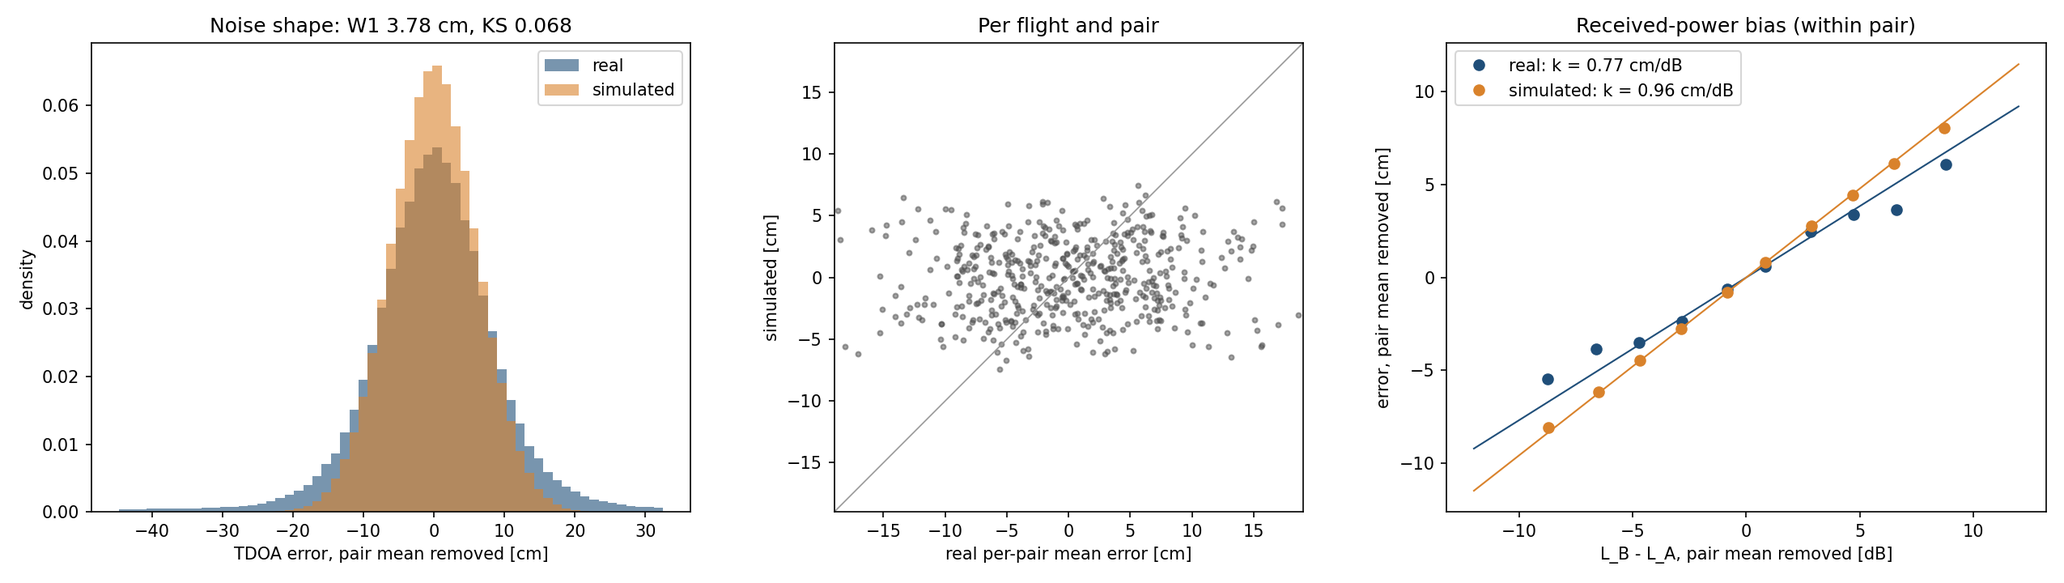
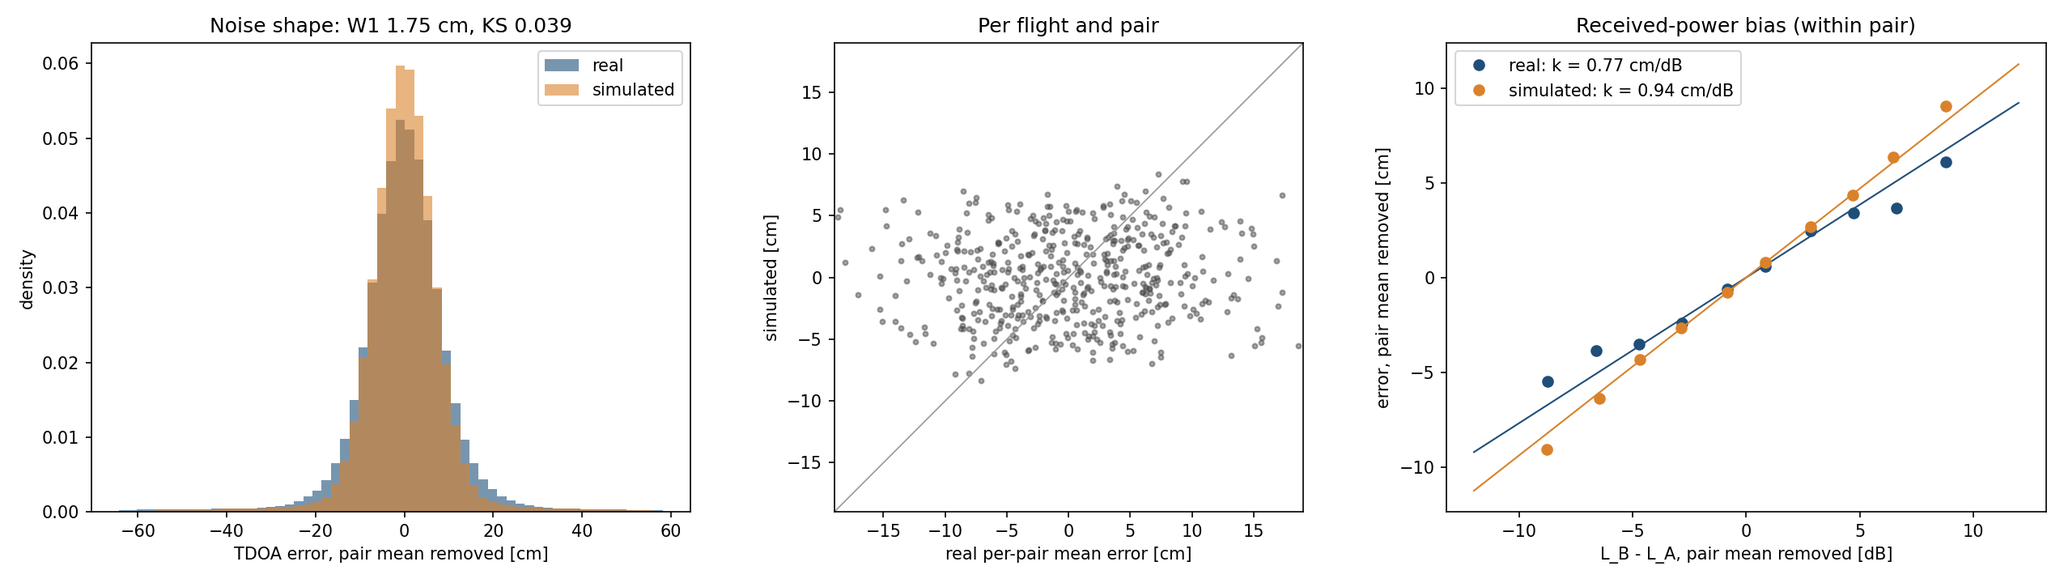
inject outliers when moving tags in tdoa mode

diff --git a/gui/static/app.js b/gui/static/app.js
@@ -38,6 +38,8 @@ const PARAM_UI = {
   dropout_mid_loss_db: { type: "slider", min: 0, max: 80, step: 0.5 },
   dropout_width_db: { type: "slider", min: 0.1, max: 10, step: 0.1 },
   enable_nlos_dropout: { type: "bool" },
+  moving_outlier_probability: { type: "slider", min: 0, max: 0.2, step: 0.005 },
+  moving_outlier_mean_cm: { type: "slider", min: 0, max: 100, step: 1 },
   nlos_endpoint_margin_m: { type: "slider", min: 0, max: 1, step: 0.01 },
   nlos_min_loss_db: { type: "slider", min: 0, max: 20, step: 0.5 },
   body_shadow_max_loss_db: { type: "slider", min: 0, max: 40, step: 0.5 },

diff --git a/uwb_gazebo_plugin/UWBGazeboSystem.cpp b/uwb_gazebo_plugin/UWBGazeboSystem.cpp
@@ -132,8 +132,8 @@ constexpr double kPositiveEpsilon = 1e-6;
 
   // Default material table. "generic" uses plasterboard's attenuation (a
   // typical interior wall) but no excess-delay bias by default, since an
-  // untagged obstacle's real material is unknown. See README.md,
-  // "Measurement model".
+  // untagged obstacle's real material is unknown. See
+  // docs/measurement_model.md.
   const std::unordered_map<std::string, MaterialModel> &materialModels()
   {
     using Kind = MaterialModel::Kind;
@@ -202,9 +202,13 @@ constexpr double kPositiveEpsilon = 1e-6;
     double obstacleLossDb{0.0};        // L_obs: walls, materials, bodies
     double biasCm{0.0};                // beta: excess delay + metal detour + power bias
     bool isNlos{false};
+    bool tagMoving{false};
     double dropoutProbability{0.0};
     double noiseStddevCm{0.0};
   };
+
+  // Smallest step between updates that counts as a moving tag.
+  constexpr double kMovingTagMinStepM = 0.01;
 
   // Parameters of the previous (severity-curve) model. They no longer
   // exist; Configure() says so rather than silently ignoring an old preset.
@@ -320,6 +324,9 @@ void UWBGazeboSystem::ValidateAndNormalizeParameters()
   clampNonNegative(this->bodyShadowMaxLossDb_, "body_shadow_max_loss_db");
   clampNonNegative(this->metalDetourLossDb_, "material_metal_detour_loss_db");
   clampNonNegative(this->metalDetourBiasCm_, "material_metal_detour_bias_cm");
+  clampNonNegative(this->movingOutlierProbability_, "moving_outlier_probability");
+  clampNonNegative(this->movingOutlierMeanCm_, "moving_outlier_mean_cm");
+  this->movingOutlierProbability_ = std::min(this->movingOutlierProbability_, 1.0);
 
   if (this->noiseEndLossDb_ < this->noiseStartLossDb_)
   {
@@ -425,6 +432,8 @@ void UWBGazeboSystem::Configure(const gz::sim::Entity &,
   readDouble("dropout_width_db", this->dropoutWidthDb_);
 
   readBool("enable_nlos_dropout", this->enableNlosDropout_);
+  readDouble("moving_outlier_probability", this->movingOutlierProbability_);
+  readDouble("moving_outlier_mean_cm", this->movingOutlierMeanCm_);
   readDouble("nlos_endpoint_margin_m", this->nlosEndpointMarginM_);
   readDouble("nlos_min_loss_db", this->nlosMinLossDb_);
   readDouble("body_shadow_max_loss_db", this->bodyShadowMaxLossDb_);
@@ -962,11 +971,22 @@ void UWBGazeboSystem::PreUpdate(const gz::sim::UpdateInfo &info,
 	const std::unordered_map<gz::sim::Entity, std::string> *obstacleMaterialsPtr =
 		this->enableMaterialAttenuation_ ? &obstacleMaterials : nullptr;
 
+	// Which tags moved since the last update (for the moving-tag outliers).
+	std::unordered_map<gz::sim::Entity, bool> tagMoving;
+	for (const auto &[tagName, tagEntity] : tags)
+	{
+		const gz::math::Vector3d tagPos = computeWorldPose(tagEntity, ecm).Pos();
+		const auto last = this->lastTagPosition_.find(tagEntity);
+		tagMoving[tagEntity] = last != this->lastTagPosition_.end() &&
+		                       tagPos.Distance(last->second) > kMovingTagMinStepM;
+		this->lastTagPosition_[tagEntity] = tagPos;
+	}
+
 	// Geometry + link budget of one tag-anchor link: what the ray crosses,
 	// the excess loss L = L_d + L_obs, and from it the LOS/NLOS regime, noise
 	// stddev and dropout probability. Shared by TWR (one link per
-	// measurement) and TDOA (two links per measurement). See README.md,
-	// "Measurement model".
+	// measurement) and TDOA (two links per measurement). See
+	// docs/measurement_model.md.
 	auto evaluateLink = [&](const gz::sim::Entity &_tagEntity,
 	                        const gz::math::Vector3d &_tagPos,
 	                        const gz::sim::Entity &_anchorEntity,
@@ -974,6 +994,7 @@ void UWBGazeboSystem::PreUpdate(const gz::sim::UpdateInfo &info,
 	{
 		LinkState link;
 		link.distanceM = _tagPos.Distance(_anchorPos);
+		link.tagMoving = tagMoving.at(_tagEntity);
 
 		const BlockedPath wallPath =
 			computeAabbBlockedPath(_tagPos, _anchorPos, obstacleLinks, _tagEntity, _anchorEntity,
@@ -1020,6 +1041,12 @@ void UWBGazeboSystem::PreUpdate(const gz::sim::UpdateInfo &info,
 			std::normal_distribution<double>(this->noiseMeanCm_, _link.noiseStddevCm)(this->rng_);
 		if (_link.isNlos && noiseCm < 0.0)
 			noiseCm = -noiseCm;
+		// Occasional late first path, seen only on moving tags in UTIL's data.
+		if (_link.tagMoving && this->movingOutlierProbability_ > 0.0 &&
+		    std::bernoulli_distribution(this->movingOutlierProbability_)(this->rng_))
+		{
+			noiseCm += std::exponential_distribution<double>(1.0 / this->movingOutlierMeanCm_)(this->rng_);
+		}
 		return noiseCm + _link.biasCm;
 	};
 

diff --git a/uwb_gazebo_plugin/UWBGazeboSystem.hpp b/uwb_gazebo_plugin/UWBGazeboSystem.hpp
@@ -100,6 +100,8 @@ private:
   unsigned int randomSeed_{0};
 
   std::unordered_map<std::string, double> pairBiasCm_;
+  // Each tag's position at the previous update.
+  std::unordered_map<gz::sim::Entity, gz::math::Vector3d> lastTagPosition_;
   std::uniform_real_distribution<double> biasCmDist_{-27.0, 20.0};
 
   // Configurable sensor model parameters (units: cm, unless noted).
@@ -123,6 +125,10 @@ private:
   // If false, obstacles don't affect dropout (only the path loss does);
   // noise still uses the full link budget.
   bool enableNlosDropout_{true};
+  // Moving tags only: each leg reads long with this probability, by an
+  // exponential excess of this mean. 0 disables it.
+  double movingOutlierProbability_{0.0};
+  double movingOutlierMeanCm_{30.0};
   // Ignore intersections too close to endpoints to avoid self-hit artifacts.
   double nlosEndpointMarginM_{0.02};
   // Obstacle loss at or above which a link is NLOS (noise folded positive).

diff --git a/gui/app.py b/gui/app.py
@@ -183,6 +183,8 @@ def create_app(uwb_root: Path, selection_file: Path) -> Flask:
         ]),
         ("Additive noise mean and persistent bias.", [
             ("gaussian_noise_mean_cm", 0.0),
+            ("moving_outlier_probability", 0.0),
+            ("moving_outlier_mean_cm", 30.0),
             ("apply_pair_bias", False),
             ("bias_min_cm", -27.0),
             ("bias_max_cm", 20.0),

diff --git a/docs/measurement_model_decisions.md b/docs/measurement_model_decisions.md
@@ -44,6 +44,7 @@ This is the record of every modelling decision in `UWBGazeboSystem` (the equatio
 | 3.6 | $`L_P = 0`$ dB | **Assumption** | Not observable in TDOA (cancels between legs); matters only in TWR, where it sets the distance with zero power bias. |
 | 3.7 | Per-anchor persistent offsets uniform on ±3.6 cm (UTIL) | Fitted (spread); **Assumption (uniform shape, √2 split)** | After removing the power trend, UTIL's per-setup mean error scatters by $`\sigma_r = 2.96`$ cm. The simulated experiment redraws both anchors per setup, so each anchor gets $`\sigma_r/\sqrt 2`$ (uniform half-width $`\sqrt{1.5}\,\sigma_r`$). In UTIL's distance test only anchor 1 moved, so this split is chosen to reproduce the experiment's scatter, not derived from physics. **Flights:** the 8 radios show a larger spread (σ ≈ 4.5 cm); widening to match was tested and rejected (D4), see open decision 10. |
 | 3.8 | Eliko persistent bias range [-27, +20] cm, off by default | Source | From the original Eliko preset (paper Table II lists pair bias disabled). Not re-derived. |
+| 3.9 | Moving-tag outliers: each leg reads long with $`p_o`$ = 0.05, by an exponential excess of mean $`m_o`$ = 25 cm, only if the tag moved more than 1 cm since the last update | Fitted (values); **Assumption (form, 1 cm gate)** | See D7. The motion gate rests on the data (0.0-0.02 % outliers in static LOS, 1-16 % in flights), but static tests also differ from flights in platform, so motion itself isn't proven to be the cause. Off in the Eliko preset: no data. |
 
 ## 4. Evidence for the received-power bias
 
@@ -97,6 +98,27 @@ Comparison method: W1 between real and simulated TDOA error distributions, same 
 
 Results, tables and figures: [Calibration](measurement_model.md#calibration).
 
+## Second calibration round (2026-11-04)
+
+Prompted by the remaining flight mismatch. The user's added condition: **no excessive parameters; always the simplest solution that gives the best results.** The dataset and tools were restored for this round and removed afterwards. The baseline reproduced first: static results exactly; LOS flights 5.20 / 3.78 cm; NLOS flights 8.58 / 13.17 cm (documented earlier as 8.26 / 13.11, so flights aren't bit-reproducible and differences near 0.3 cm mean nothing).
+
+| Decision | Change | Evidence |
+| --- | --- | --- |
+| D7 | **Kept.** Moving-tag outliers, $`p_o`$ = 0.05, $`m_o`$ = 25 cm (decision 3.9) | LOS flights W1 5.20 / 3.78 → 3.07 / 1.75 cm; NLOS 8.58 / 13.17 → 7.89 / 11.38 cm; every constellation better. Held-out trial 4 (not used in the fit): const 1 4.29 / 2.06 → 2.81 / 1.36, const 2 3.00 / 1.66 → 1.75 / 0.93, const 3 9.49 / 9.07 → 7.40 / 7.20 cm. Static: unaffected, verified on the final build. Values picked from a grid on the recorded flights; the optimum is broad. |
+| D8 | **Rejected and removed.** Metal detour loss out of the noise curve, with a fixed metal noise of 18 cm | Fixes the leg size (57 → 36.8 cm, real 27.9) but flight W1 worsens: 8.58 / 12.88 → 13.29 / 16.45 cm (pooled per pair), because metal scatter falls to 11.5 cm against the real 34.7. Static metal W1 6.88 → 6.91 cm. |
+| D9 | **Rejected, not implemented.** Bias-only metal: same, with the shift from `material_metal_detour_bias_cm` | Offline: static metal W1 doubles (6.0 → 10-13 cm), within-placement spread 4.6 cm against the real 7.1. |
+| D10 | **Rejected, not implemented.** Excess delay as a field correlated over tag travel, scaled by $`L_{	ext{obs}}`$ (Gudmundson-style) | Offline over 60 seeds, summed pooled W1 over the six anTag obstacles: 20.5-22.8 cm against 19.4 cm for the current model. It helps metal (5.75 → 3.37 cm) but hurts the cabinet (6.17 → 9.56 cm), and it needs a correlation length plus per-link state. With 6 placements, a single seed's W1 also penalises any model with real placement randomness: a model's W1 against itself reaches 4-8 cm. |
+| D11 | **Not pursued.** Per-anchor outlier rates or burst states | Real rates differ strongly per anchor, but the added parameters and state go against the simplicity condition, and the uniform term already improves every group. |
+
+**Measured on the real data:**
+
+- **Static spread is mostly between placements.** Within-placement robust std: metal 7.1 cm, wood 4.6-6.1 cm, LOS 4.9 cm. This corrects the reading in open decision 7, which took pooled spreads as noise. The model's folded noise over-produces within-placement spread behind metal (11.2 cm) and under-produces placement scatter (2.9 cm against 14.9 cm).
+- **Placement sd:** metal 14.9, wooden shelf 13.7, cabinet 7.3, plastic 2.8, foam 1.2, cardboard 1.0 cm. The shelf's is mostly geometric: its $`L_{	ext{obs}}`$ is 6 dB in four placements and 19 dB in two.
+- **Metal leg in flight:** medians 26-29 cm in all three trajectories, correlation over tag separation 0.82 (< 0.1 m), 0.57 (0.5 m), 0.41 (1 m), 0.23 (2 m); repeatable between flights (0.55-0.62 over shared 0.5 m cells). Mean 64.6 cm against a median of 27 cm: a very heavy tail.
+- **LOS tails are per-anchor and not fixed:** const 3 anchors 6 and 3 read > 30 cm long in 26 % and 14.6 % of samples, others 0.7-4 %. Const 4: anchor 2 (metal) 32.9 %, anchor 5 (wood) 11.1 %, wood anchors 0 and 7 about 4 %. Correlation is gone by about 0.25 m and repeatability between flights is low for anchor 6 (-0.33 to 0.48).
+
+W1 pairs in this section are raw / each pair's median removed. `analyze_flight` removes medians per flight; D8's pooled figures group each pair across flights, which is why they differ slightly.
+
 ### Pipeline problems found
 
 These affected the comparison and were fixed; the first two also apply to normal use:
@@ -126,17 +148,17 @@ How UTIL's flights were reproduced in the full pipeline. These are experiment ch
 
 These are the assumptions above that data could still change, what the UTIL experiments showed, and what would settle each:
 
-1. **Noise core and tails (3.2):** the LOS core is 15-30 % too wide at 4 cm, but narrowing it (D2) worsens the high-loss NLOS fit, because the model's spread doesn't grow enough with loss (open decision 7). Fixing 7 first would let the LOS core be narrowed without that cost. A heavy-tail component for the real data's tails and gross outliers (three single samples 9-14 m off in the LOS angle test; wide, multi-modal errors behind wood and metal) is also open.
+1. **Noise core and tails (3.2):** the LOS core is 15-30 % too wide at 4 cm, but narrowing it (D2) worsens the high-loss NLOS fit, because the model's spread doesn't grow enough with loss (open decision 7). Fixing 7 first would let the LOS core be narrowed without that cost. D7 added a tail for moving tags; static gross outliers (three single samples 9-14 m off in the LOS angle test) stay unmodelled.
 2. **Power-bias form (3.5):** linear for now (D3); APS011's Table 2 shape driven by RSL would saturate correctly but needs $`P_T + G`$.
 3. **Session offset:** the LOS angle test's real mean error is +5.7 cm, while the distance-test fit predicts -1.5 cm for its geometry. The model draws offsets symmetric around 0 and can't predict a session's level.
 4. **Max range (1.3):** 75 m (paper/datasheet) vs 50 m (Eliko web page).
 5. **Dielectric delay and metal detour bias (2.6, 2.7):** decided (D1), and the flights support it: with no detour bias the metal leg is already over-predicted. Still to do: decide whether solid walls should use the delay.
 6. **Obstacle losses (2.4, 2.5, 2.6 loss):** the assumed plastic/cardboard/foam properties and the 20 dB metal detour loss feed both the power bias and the folding, so they're coupled to decision 5.
-7. **NLOS spread and metal size (3.1 shape, 3.4):** real robust std behind wood and metal is 9-13 cm in the static tests; simulated with D1 it's 7.9 (shelf), 5.3 (cabinet) and 11.5 cm (metal). The real distributions are also multi-modal, which a single folded Gaussian can't produce. This is what blocked D2. The flights add a second symptom: because noise rises steeply with total loss, the metal leg's bias depends on distance in the model (57 cm in flight, 35 cm static) but barely in reality (29 and 35 cm). Separating obstacle noise from the total-loss curve would address both, and is a model change rather than a tuning.
+7. **NLOS spread and metal size (3.1 shape, 3.4):** real robust std behind wood and metal is 9-13 cm in the static tests; simulated with D1 it's 7.9 (shelf), 5.3 (cabinet) and 11.5 cm (metal). The real distributions are also multi-modal, which a single folded Gaussian can't produce. This is what blocked D2. The flights add a second symptom: because noise rises steeply with total loss, the metal leg's bias depends on distance in the model (57 cm in flight, 35 cm static) but barely in reality (29 and 35 cm). The second round tested this: separating obstacle noise from the total-loss curve (D8) fixes the size but loses the scatter, and a correlated field (D10) fits metal but not wood, so both were rejected. Note the static spreads quoted here are pooled over placements; see the second round's measurements. A geometric detour around obstacle edges is untested.
 8. **Anchor-anchor link (5.x):** not simulated. Real anAn errors stay within ±0.8 cm of LOS except plastic (-3.5 cm) and added spread/outliers behind metal, so the omission is minor for these obstacles. Not modelled for now: how an anchor-anchor error enters TDOA depends on the TDOA3 protocol's use of inter-anchor timing, which hasn't been sourced yet; to revisit if the flight data shows errors only it can explain, or for anchors mounted on robots, where the anchor-anchor link is blocked more often.
 9. **Still unvalidated:** $`n = 2`$ and the $`\sigma`$/dropout shapes beyond 6.5 m (1.2, 3.1, 3.3), the 3 dB NLOS threshold (2.8) and the 10 dB body cap (2.9) -- UTIL's identification data can't test them.
 10. **Per-anchor offset spread (3.7):** the flights measure σ ≈ 4.5 cm over 8 radios; the preset's 2.1 cm comes from one pair's scatter between setups. Part of D4's static penalty comes from the static experiment redrawing both anchors in every setup, while the real tests used the same two radios throughout. Holding the offsets fixed across setups would make the static test a fair check of a wider range.
-11. **Environment noise (constellations 3 and 4):** real noise is about twice the simulation's without any modelled obstacle. An optional per-environment noise factor could represent it; multipath around the mounts is a hypothesis, not a measured cause.
+11. **Environment noise (constellations 3 and 4):** real noise is about twice the simulation's without any modelled obstacle. D7 narrows the gap but doesn't close it. The second round showed the excess is concentrated in specific anchors rather than spread across the environment, so a per-environment factor wouldn't fit; multipath around the mounts remains a hypothesis, and the low repeatability argues against fixed reflections.
 12. **Rover physics with tall anchors:** unarmed rovers rocked under physics, up to 85 cm at ceiling-height anchors. Suspected cause: the 0.0001 kg anchor link on a fixed joint, up to 2.85 m above `base_link`. Only four of eight rovers moved, and why isn't known. To diagnose before relying on tall anchors on moving UGVs.
 13. **Fixed anchors in the world:** `static: true` carriers are a placeholder until anchors can be placed directly.
 

diff --git a/docs/measurement_model.md b/docs/measurement_model.md
@@ -56,6 +56,9 @@ p =
 - $`p`$ combines an independent floor $`p_{\min}`$ = `min_dropout_probability` (random packet loss) with a logistic link failure as the budget runs out, centred on $`L_{50}`$ = `dropout_mid_loss_db` with width $`w`$ = `dropout_width_db`. Beyond $`L_{\max}`$ = `max_link_loss_db` the link is closed.
 - With `enable_nlos_dropout: false`, dropout uses $`L_d`$ only (obstacles don't drop measurements); noise still uses the full $`L`$.
 
+## Moving-tag outliers
+
+While a tag moves (more than 1 cm between updates), each of its links independently reads long with probability $`p_o`$ = `moving_outlier_probability`, by an exponentially distributed excess of mean $`m_o`$ = `moving_outlier_mean_cm`. The excess is added to the noise $`\tilde n`$ defined below. A still tag is never affected, because UTIL's static recordings have almost no such samples while its flights do. Off by default ($`p_o = 0`$). This is an empirical term: it reproduces the error distribution, but the physical cause isn't established.
 
 ## Deterministic bias
 
@@ -145,7 +148,7 @@ The same wall matters more the farther apart the robots are, since it eats into 
 ## Limitations
 
 - Box collisions are intersected exactly, including rotated ones; any other collision shape (meshes, cylinders, ...) falls back to its link's world-axis-aligned bounding box, which over-estimates the blocked length.
-- One straight ray per link: no multipath, and no diffraction around obstacle edges (the metal detour loss and bias are constants, not computed from geometry).
+- One straight ray per link: no explicit multipath, and no diffraction around obstacle edges (the metal detour loss and bias are constants, not computed from geometry). The moving-tag outliers are a statistical stand-in, the same for every anchor and uncorrelated in time.
 - Overlapping obstacles of *different* materials each count their own chord length.
 - The outlier-heavy behaviour UTIL shows behind some plastic and cabinet obstacles (mostly accurate readings with occasional large misses) isn't modelled.
 - The TDOA reference anchor is fixed (lowest id), and clock synchronisation between anchors isn't simulated.
@@ -165,6 +168,7 @@ The same wall matters more the farther apart the robots are, since it eats into 
 | `min_noise_stddev_cm`, `max_noise_stddev_cm` | $`\sigma_{\min}`$, $`\sigma_{\max}`$ | `12.0`, `50.0` |
 | `noise_start_loss_db`, `noise_end_loss_db` | $`L_{\sigma 0}`$, $`L_{\sigma 1}`$ | `23.5`, `37.5` |
 | `gaussian_noise_mean_cm` | $`\mu`$ | `0.0` |
+| `moving_outlier_probability`, `moving_outlier_mean_cm` | $`p_o`$, $`m_o`$ | `0.0`, `30.0` |
 | **Dropout** | | |
 | `min_dropout_probability` | $`p_{\min}`$ | `0.02` |
 | `dropout_mid_loss_db`, `dropout_width_db` | $`L_{50}`$, $`w`$ | `35.5`, `1.4` |
@@ -213,6 +217,7 @@ Calibrated and validated against the [UTIL](https://utiasdsl.github.io/util-uwb-
 | `material_metal_detour_loss_db` | 20 | Assumed; reproduces the static metal shift |
 | `material_metal_detour_bias_cm`, `enable_dielectric_delay` | 0, `false` | Both over-predicted the static NLOS shifts |
 | `enable_nlos_dropout` | `false` | Metal-blocked pairs keep 78-99 % of the unblocked sample rate in UTIL's flights |
+| `moving_outlier_probability`, `moving_outlier_mean_cm` | 0.05, 25 | Fitted on the flights; checked on held-out flights |
 
 Results below compare real and simulated TDOA errors with the Wasserstein-1 distance (W1, in cm). Robust std is 1.4826 times the median absolute deviation.
 
@@ -240,49 +245,60 @@ NLOS, 6 placements per material; *shift* = mean error minus the LOS baseline's, 
 
 ![Static NLOS shift by material](images/static_material_shift.png)
 
+Most of the real spread behind an obstacle is between placements, not between samples. Within one placement the robust std is 7.1 cm behind metal and 4.6-6.1 cm behind wood, against 4.9 cm in LOS. Between placements, the median shift varies by 14.9 cm for metal and 7.3 cm for the wooden cabinet, whose obstacle loss hardly changes. The wooden shelf's 13.7 cm comes mostly from its chord length, which the model reproduces.
+
 #### LOS flights (constellations 1-3, trials 1-3)
 
 | | real | simulated |
 | --- | ---: | ---: |
-| Robust std, each pair's median removed | 7.88 cm | 6.10 cm |
-| Spread of per-pair median errors | 7.49 cm | 3.07 cm |
-| Bias slope $`k`$, pooled | 0.77 cm/dB | 0.96 cm/dB |
+| Robust std, each pair's median removed | 7.88 cm | 6.70 cm |
+| Spread of per-pair median errors | 7.49 cm | 3.50 cm |
+| Bias slope $`k`$, pooled | 0.77 cm/dB | 0.94 cm/dB |
 
-W1 is 5.21 cm raw and 3.78 cm with each pair's median removed. By constellation:
+W1 is 3.07 cm raw and 1.75 cm with each pair's median removed (5.20 and 3.78 cm without the moving-tag outliers). By constellation:
 
 | Constellation | W1, medians removed | Raw robust std, real / sim |
 | --- | ---: | --- |
-| 1 | 1.8-2.3 cm | 10.9 / 6.8 cm |
-| 2 | 1.2-2.3 cm | 9.7 / 6.9 cm |
-| 3 | 8.5-9.2 cm | 14.2 / 6.8 cm |
+| 1 | 1.1-1.6 cm | 10.9 / 7.5 cm |
+| 2 | 1.0-1.4 cm | 9.7 / 8.0 cm |
+| 3 | 6.7-7.4 cm | 14.2 / 7.7 cm |
+
+The outlier values were fitted on these flights, so they were also checked on trial 4 of each constellation, which played no part in the fit. W1 raw / with medians removed, in cm:
+
+| Held-out flight | Without outliers | With outliers |
+| --- | --- | --- |
+| Constellation 1, trial 4 | 4.29 / 2.06 | 2.81 / 1.36 |
+| Constellation 2, trial 4 | 3.00 / 1.66 | 1.75 / 0.93 |
+| Constellation 3, trial 4 | 9.49 / 9.07 | 7.40 / 7.20 |
 
 ![LOS flights: noise shape, per-pair error, received-power bias](images/flights_los.png)
 
 *In this figure and the next, the error's "pair mean" is the pair median; slope points use samples within 30 cm of it.*
 
 - **The noise shape and the power bias transfer to flight.** Per flight, the slope averages 0.82 ± 0.21 cm/dB, consistent with the static fit.
-- **Per-anchor offsets are larger than the preset's.** Over 8 radios the real spread is about 4.5 cm per anchor, against 2.1 cm simulated. Widening the preset's range fits the flights better but makes the static fit worse, and no value in between avoids it:
+- **Moving tags have outliers that static ones don't.** More than 30 cm from the pair's median: 0.0 % in static LOS, about 1 % in constellations 1-2 and 10 % in constellation 3. The moving-tag term gives a uniform 3 %, which improves every group but overshoots the first and undershoots the second.
+- **Per-anchor offsets are larger than the preset's.** Over 8 radios the real spread is about 4.5 cm per anchor, against 2.1 cm simulated. Widening the preset's range fits the flights better but makes the static fit worse, and no value in between avoids it (this comparison predates the outlier term):
 
 ![W1 against the offset range for flights and static tests](images/offset_tradeoff.png)
 
-- **Constellation 3's real noise is 2.5 times wider** at nearly the same distances, with fewer samples per pair. Its ceiling anchors are mounted higher, which points to multipath around the mounts, though that isn't measured. The model has no term for it.
+- **Constellation 3 remains the worst LOS case, and its errors are concentrated in two anchors.** Anchors 6 and 3 read more than 30 cm long in 26 % and 15 % of their samples, the other six in 1-4 %. These errors fade within about 0.25 m of tag travel and mostly don't repeat at the same place between flights, so they don't look like fixed reflections. The cause isn't known, and a per-anchor term was left out for simplicity.
 - **About 0.7 % of the real samples are corrupted**: their TDOA exceeds the anchor baseline by up to 120 m. They were excluded from the comparison.
 
 #### NLOS flights (constellation 4, trial 4: one metal and three wooden boxes)
 
 | Pair type | Robust std real / sim | Outliers real / sim | Rate vs unblocked, real / sim |
 | --- | --- | --- | --- |
-| Unblocked | 13.6 / 6.2 cm | 8.7 / 0.0 % | |
-| Wood | 13.2 / 5.5 cm | 7.9 / 0.0 % | 1.11-1.15 / 1.01 |
-| Metal | 36.8 / 28.8 cm | 43.6 / 26.6 % | 0.78-0.99 / 1.00 |
+| Unblocked | 13.3 / 7.3 cm | 10.4 / 3.0 % | |
+| Wood | 12.2 / 6.7 cm | 8.6 / 2.9 % | 1.11-1.15 / 1.01 |
+| Metal | 34.7 / 29.3 cm | 41.9 / 27.8 % | 0.78-0.99 / 1.00 |
 
-Outliers are samples more than 30 cm from their pair's median. W1 is 8.26 cm raw and 13.11 cm with each pair's median removed.
+Outliers are samples more than 30 cm from their pair's median, with the three flights pooled per pair. W1 is 7.89 cm raw and 11.38 cm with each pair's median removed (8.58 and 13.17 cm without the moving-tag outliers). Flights aren't bit-reproducible even with the same seed: repeating this set without changes moved W1 by about 0.3 cm.
 
 ![NLOS flights with the final calibration](images/flights_nlos.png)
 
-- **Metal matches in sign, sample rate and most of the scatter, but not in size.** The blocked leg reads 29.2 cm long in reality and 57.1 cm in the simulation. The static test matches because its total loss is lower, and noise grows steeply with loss.
+- **Metal matches in sign, sample rate and most of the scatter, but not in size.** The blocked leg reads 28 cm long in reality and 58 cm in the simulation. The static test matches because its total loss is lower, and noise grows steeply with loss. Taking the detour loss out of the noise curve brings the leg to 37 cm, but it removes the scatter too (11.5 cm against the real 34.7) and worsens W1 to 13.3 cm, so it was rejected.
 - **Wood adds no measurable scatter**, in reality or in the simulation. It does add bias, roughly as modelled.
-- **Constellation 4 is noisier than the simulation even on unblocked pairs**, like constellation 3.
+- **Constellation 4 is noisier than the simulation even on unblocked pairs**, like constellation 3, despite the outlier term.
 - **Box positions weren't surveyed in UTIL's flights.** They were placed 0.5 m in front of each anchor, so the simulated metal effect also depends on that assumption.
 
 Flights reproduce UTIL's paths, not its timing: the UAV covered 89-100 % of each path with a median tracking error of 3-7 cm. Anchors were carried by `static: true` robots at their surveyed positions.
